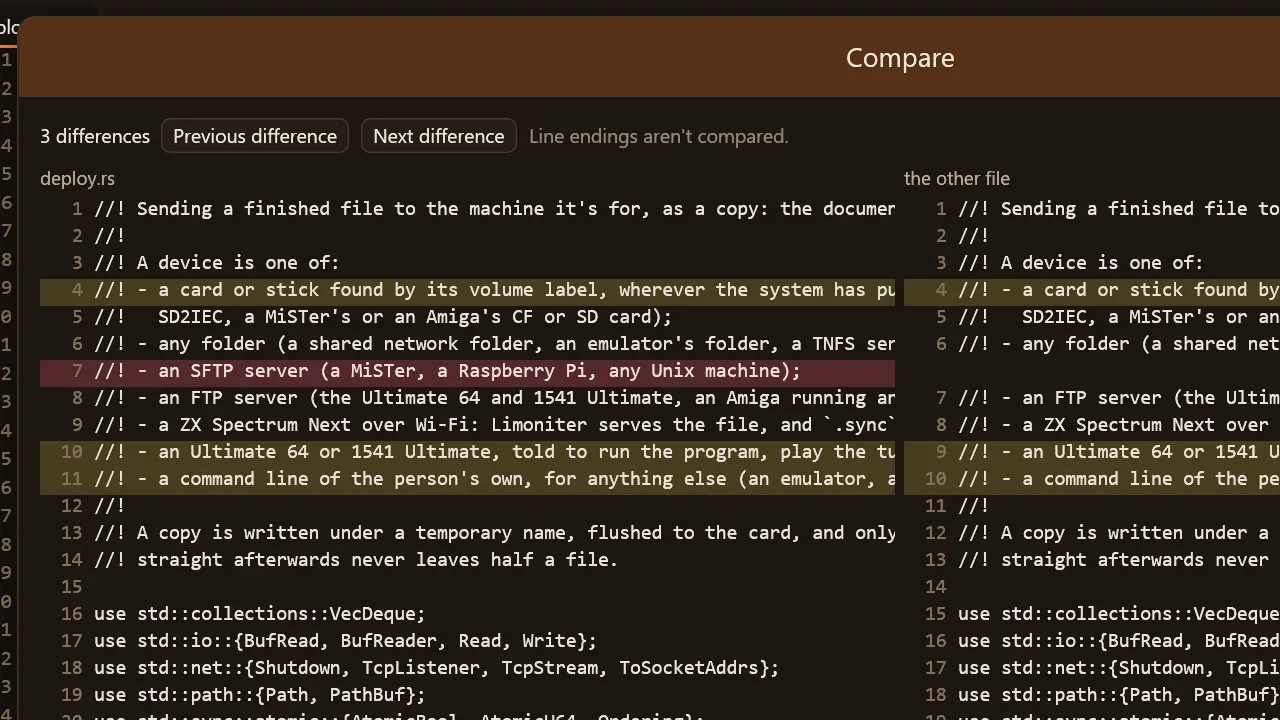
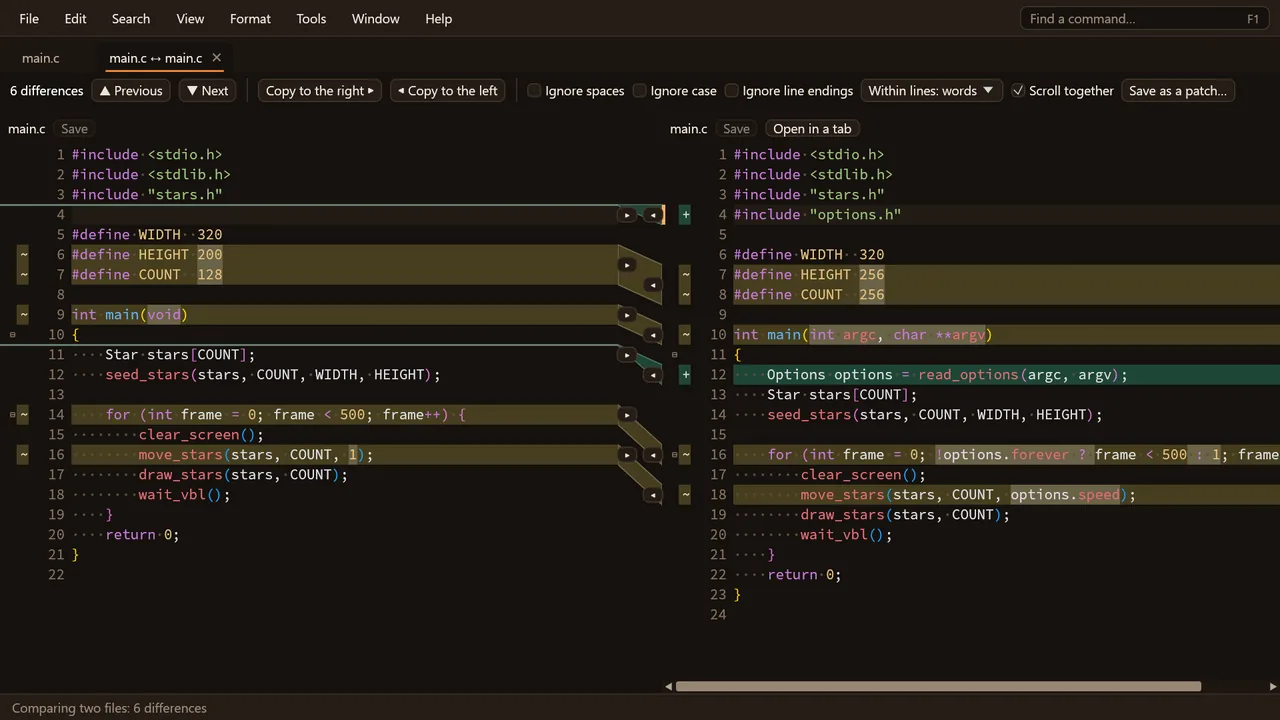
Make compare and merge prominent on the website, with new screenshots
A Compare and merge section on the home page, in the navigation and the slideshow; rows for comparing
folders and three-way merge in the comparison. Screenshots ignore the real mouse; the merge tab scrolls
its result to the conflict and isn't offered Git; folder rows show their words only when hovered.

diff --git a/web/index.html b/web/index.html
@@ -4,7 +4,7 @@
   <meta charset="utf-8">
   <meta name="viewport" content="width=device-width, initial-scale=1">
   <title>Limoniter: a powerful text and hex editor that speaks 8-bit</title>
-  <meta name="description" content="Limoniter is a free, open-source text and hex editor for Windows, macOS and Linux: column editing, an undo tree, Find in Files, compare, code layout, scripts and 10 GB files. It also edits the files of older computers byte for byte: PETSCII, ATASCII, EBCDIC, teletext and 170 more character sets. It opens their disks and tapes, lists their BASIC, and sends your work back to the machine.">
+  <meta name="description" content="Limoniter is a free, open-source text and hex editor for Windows, macOS and Linux: column editing, an undo tree, Find in Files, folder and file compare, three-way merge, code layout, scripts and 10 GB files. It also edits the files of older computers byte for byte: PETSCII, ATASCII, EBCDIC, teletext and 170 more character sets. It opens their disks and tapes, lists their BASIC, and sends your work back to the machine.">
   <link rel="canonical" href="https://limoniter.com/">
   <meta property="og:type" content="website">
   <meta property="og:url" content="https://limoniter.com/">
@@ -32,6 +32,7 @@
       <button class="menu-button" aria-expanded="false" aria-controls="nav">Menu</button>
       <nav id="nav" class="nav">
         <a href="#features">Everyday work</a>
+        <a href="#compare">Compare and merge</a>
         <a href="#retro">Older computers</a>
         <a href="#machines">Machines</a>
         <a href="#send">Send to device</a>
@@ -49,7 +50,7 @@
         <div class="hero-text">
           <p class="eyebrow">Free and open source · Windows, macOS and Linux</p>
           <h1>A powerful editor for today's files, and one that speaks <span class="speaks-line"><span class="speaks">PETSCII</span><span class="cursor" aria-hidden="true"></span></span></h1>
-          <p class="lead">Limoniter is a full-strength text and hex editor for everyday work. It has column editing, an undo tree, Find in Files, side-by-side compare, code layout, macros, scripts and add-ons, and files of 10 GB open in milliseconds.</p>
+          <p class="lead">Limoniter is a full-strength text and hex editor for everyday work. It has column editing, an undo tree, Find in Files, <a href="#compare">folder and file compare with three-way merge</a>, code layout, macros, scripts and add-ons, and files of 10 GB open in milliseconds.</p>
           <p class="lead">It's also the only editor that knows the files of older computers. It edits their text byte for byte in the machine's own character set, opens their disks and tapes, lists their BASIC, and sends your work back to the machine.</p>
           <div class="actions">
             <a class="button primary" href="#get">Download</a>
@@ -62,6 +63,12 @@
             <button class="slide active" data-full="images/teletext.webp" data-caption="A teletext page file beside the page it makes" aria-label="Enlarge: A teletext page file beside the page it makes">
               <img src="images/teletext-close.webp" alt="A teletext page and the file behind it" width="1280" height="720">
             </button>
+            <button class="slide" data-full="images/compare-folders.webp" data-caption="Two folders compared, file by file" aria-label="Enlarge: Two folders compared, file by file" tabindex="-1" aria-hidden="true">
+              <img src="images/compare-folders-close.webp" alt="Two versions of a project compared as a tree" width="1280" height="720" loading="lazy">
+            </button>
+            <button class="slide" data-full="images/merge.webp" data-caption="A three-way merge, with the result to edit" aria-label="Enlarge: A three-way merge, with the result to edit" tabindex="-1" aria-hidden="true">
+              <img src="images/merge-close.webp" alt="The merge tab with the original, mine and theirs above the result" width="1280" height="720" loading="lazy">
+            </button>
             <button class="slide" data-full="images/undo-tree.webp" data-caption="Undo as a tree, with every branch kept" aria-label="Enlarge: Undo as a tree, with every branch kept" tabindex="-1" aria-hidden="true">
               <img src="images/undo-tree-close.webp" alt="The Edit history panel beside some code" width="1280" height="720" loading="lazy">
             </button>
@@ -73,9 +80,6 @@
             </button>
             <button class="slide" data-full="images/table.webp" data-caption="A CSV file as a table, cells and all" aria-label="Enlarge: A CSV file as a table, cells and all" tabindex="-1" aria-hidden="true">
               <img src="images/table-close.webp" alt="A CSV file of minerals shown in table view" width="1280" height="720" loading="lazy">
-            </button>
-            <button class="slide" data-full="images/compare.webp" data-caption="Two versions of a file, side by side" aria-label="Enlarge: Two versions of a file, side by side" tabindex="-1" aria-hidden="true">
-              <img src="images/compare-close.webp" alt="The Compare view with changed lines marked" width="1280" height="720" loading="lazy">
             </button>
             <button class="slide" data-full="images/amiga-disk.webp" data-caption="An Amiga floppy, opened as a folder" aria-label="Enlarge: An Amiga floppy, opened as a folder" tabindex="-1" aria-hidden="true">
               <img src="images/amiga-disk-close.webp" alt="Fred Fish disk 801 in the disk browser" width="1280" height="720" loading="lazy">
@@ -117,7 +121,7 @@
           </article>
           <article class="card">
             <h3>Find, replace, compare</h3>
-            <p>Regular expressions, hex bytes, history and favourites. Find and Replace in Files across folders, open files or a project, in the background. Compare two files side by side, or narrow to a few lines and work on just those.</p>
+            <p>Regular expressions, hex bytes, history and favourites. Find and Replace in Files across folders, open files or a project, in the background. Compare files and whole folders, and merge three versions: <a href="#compare">more below</a>.</p>
           </article>
           <article class="card">
             <h3>Code, laid out and coloured</h3>
@@ -147,7 +151,52 @@
       </div>
     </section>
 
-    <section id="retro" class="section alt">
+    <section id="compare" class="section alt">
+      <div class="wrap">
+        <div class="split">
+          <div>
+            <h2>Compare and merge</h2>
+            <p>Compare two files or two whole folders, merge three versions of a file, and let Git use Limoniter for both. It's all in <strong>Tools › Compare files…</strong>, <strong>Compare folders…</strong> and <strong>Git › Merge</strong>.</p>
+            <ul class="ticks">
+              <li><strong>Files side by side, both editable.</strong> Changed lines and the words within them are marked. An arrow copies a difference across, and Undo takes it back. Spaces, case and line endings can be ignored, and the comparison saves as a patch.</li>
+              <li><strong>Whole folders as a tree.</strong> Each side can be a folder, a Git revision, a disk image or archive, or a folder on an SFTP server. Compare by size and time or by contents, and leave out what <code>.gitignore</code> leaves out. Save the result as an HTML report or one patch.</li>
+              <li><strong>Not only text.</strong> Binary files are compared byte by byte in hex, pictures as pictures with their differences shown, and files too big for memory in the background.</li>
+              <li><strong>Three-way merge.</strong> The original, mine and theirs are lined up above the result, which you can edit. Changes made on only one side are merged already, and each conflict waits for Take mine, Take theirs or Take both.</li>
+              <li><strong>Git, when you say so.</strong> Conflicted files get <strong>Resolve in merge…</strong>. One button makes <code>git difftool</code> and <code>git mergetool</code> open Limoniter. It asks first if another tool is set, and it can put your old settings back.</li>
+              <li><strong>Copying with care.</strong> Before anything is copied between folders, you see a list of what will change. Nothing is deleted, and every file that's replaced is backed up first.</li>
+            </ul>
+          </div>
+          <div class="terminal" aria-label="Resolving a Git conflict in Limoniter">
+            <div class="terminal-bar"><span></span><span></span><span></span></div>
+<pre><code><span class="dim">git</span>        <b>git mergetool</b>
+<span class="dim">git</span>        Merging: src/main.c
+
+<span class="dim">Limoniter</span>  Merge: main.c   1 conflict left
+           Take mine · <b>Take theirs</b> · Take both
+<span class="dim">Limoniter</span>  Saved, no conflicts left
+
+<span class="dim">git</span>        src/main.c is resolved
+<span class="dim">git</span>        <b>git commit</b></code></pre>
+          </div>
+        </div>
+        <div class="gallery compare-gallery">
+          <figure>
+            <button class="shot" data-full="images/compare-folders.webp" aria-label="Enlarge: comparing two folders"><img src="images/compare-folders-close.webp" alt="Two versions of a project compared as a tree, with each file marked the same, changed, or only on one side" loading="lazy" width="1280" height="720"></button>
+            <figcaption>Two versions of a project compared folder by folder, with what changed in words as well as colour.</figcaption>
+          </figure>
+          <figure>
+            <button class="shot" data-full="images/compare.webp" aria-label="Enlarge: comparing two files"><img src="images/compare-close.webp" alt="Two versions of a C file side by side, both editable, with changed lines and words marked" loading="lazy" width="1280" height="720"></button>
+            <figcaption>Two files side by side, both editable, with a difference copied across in one click.</figcaption>
+          </figure>
+          <figure>
+            <button class="shot" data-full="images/merge.webp" aria-label="Enlarge: a three-way merge"><img src="images/merge-close.webp" alt="The merge tab: the original, mine and theirs above, and the merged result below with one conflict left" loading="lazy" width="1280" height="720"></button>
+            <figcaption>A three-way merge: what merges cleanly is done already, and the conflict waits for you.</figcaption>
+          </figure>
+        </div>
+      </div>
+    </section>
+
+    <section id="retro" class="section">
       <div class="wrap">
         <h2>For older computers</h2>
         <p class="section-lead">This is where no other editor comes close. Limoniter knows the machines themselves: their character sets, screens, disks, programs and pictures.</p>
@@ -180,7 +229,7 @@
       </div>
     </section>
 
-    <section id="machines" class="section">
+    <section id="machines" class="section alt">
       <div class="wrap">
         <h2>Pick your machine</h2>
         <p class="section-lead">Here's what Limoniter knows about each one.</p>
@@ -190,7 +239,7 @@
       </div>
     </section>
 
-    <section id="send" class="section alt">
+    <section id="send" class="section">
       <div class="wrap split">
         <div>
           <h2>From the editor to the real machine</h2>
@@ -217,7 +266,7 @@
       </div>
     </section>
 
-    <section id="screens" class="section">
+    <section id="screens" class="section alt">
       <div class="wrap">
         <h2>Screenshots</h2>
         <div class="gallery">
@@ -246,10 +295,6 @@
             <figcaption>Copy any theme and change it colour by colour, or make one from three colours.</figcaption>
           </figure>
           <figure>
-            <button class="shot" data-full="images/compare.webp" aria-label="Enlarge: comparing two files"><img src="images/compare-close.webp" alt="The Compare view showing two files with changed lines highlighted" loading="lazy" width="1280" height="720"></button>
-            <figcaption>Two versions of a file side by side, with the differences marked.</figcaption>
-          </figure>
-          <figure>
             <button class="shot" data-full="images/amiga-disk.webp" aria-label="Enlarge: an Amiga floppy"><img src="images/amiga-disk-close.webp" alt="Fred Fish disk 801 open in the disk browser" loading="lazy" width="1280" height="720"></button>
             <figcaption>An Amiga floppy from the Fred Fish collection, opened as a folder.</figcaption>
           </figure>
@@ -261,7 +306,7 @@
       </div>
     </section>
 
-    <section id="get" class="section alt">
+    <section id="get" class="section">
       <div class="wrap">
         <h2>Get Limoniter</h2>
         <div class="platforms">

diff --git a/web/compare.html b/web/compare.html
@@ -299,6 +299,38 @@
 <td class="yes"><span class="mark" aria-label="Yes">✓</span></td>
 </tr>
 <tr>
+<th scope="row">Compare folders</th>
+<td class="ours yes"><span class="mark" aria-label="Yes">✓</span> folders, Git revisions, disk images, archives and SFTP</td>
+<td class="no"><span class="mark" aria-label="No">✗</span></td>
+<td class="no"><span class="mark" aria-label="No">✗</span></td>
+<td class="part"><span class="mark" aria-label="In part">◐</span> extensions</td>
+<td class="part"><span class="mark" aria-label="In part">◐</span> plug-ins</td>
+<td class="yes"><span class="mark" aria-label="Yes">✓</span></td>
+<td class="unknown"><span class="mark" aria-label="Not checked">?</span></td>
+<td class="no"><span class="mark" aria-label="No">✗</span></td>
+<td class="unknown"><span class="mark" aria-label="Not checked">?</span></td>
+<td class="unknown"><span class="mark" aria-label="Not checked">?</span></td>
+<td class="no"><span class="mark" aria-label="No">✗</span></td>
+<td class="yes"><span class="mark" aria-label="Yes">✓</span></td>
+<td class="unknown"><span class="mark" aria-label="Not checked">?</span></td>
+</tr>
+<tr>
+<th scope="row">Three-way merge</th>
+<td class="ours yes"><span class="mark" aria-label="Yes">✓</span> and as Git's merge tool</td>
+<td class="no"><span class="mark" aria-label="No">✗</span></td>
+<td class="no"><span class="mark" aria-label="No">✗</span></td>
+<td class="yes"><span class="mark" aria-label="Yes">✓</span></td>
+<td class="yes"><span class="mark" aria-label="Yes">✓</span></td>
+<td class="yes"><span class="mark" aria-label="Yes">✓</span></td>
+<td class="unknown"><span class="mark" aria-label="Not checked">?</span></td>
+<td class="part"><span class="mark" aria-label="In part">◐</span></td>
+<td class="unknown"><span class="mark" aria-label="Not checked">?</span></td>
+<td class="unknown"><span class="mark" aria-label="Not checked">?</span></td>
+<td class="no"><span class="mark" aria-label="No">✗</span></td>
+<td class="unknown"><span class="mark" aria-label="Not checked">?</span></td>
+<td class="no"><span class="mark" aria-label="No">✗</span></td>
+</tr>
+<tr>
 <th scope="row">Spell checking</th>
 <td class="ours yes"><span class="mark" aria-label="Yes">✓</span></td>
 <td class="yes"><span class="mark" aria-label="Yes">✓</span></td>
@@ -826,7 +858,7 @@
 <h2 id="what-others-do-that-limoniter-doesn-t">What others do that Limoniter doesn't</h2>
 <ul><li><strong>Other platforms.</strong> Limoniter is made for Windows. It now builds and runs on Linux, where a few things are lighter (no file-type registration; spelling through hunspell or aspell; printing as plain pages through CUPS), and there's a Mac app to download, though it isn't signed yet and has had less use than the Windows one. VS Code, Sublime Text, Vim, Emacs, Kate, Zed and UltraEdit are long established on all three; BBEdit is the Mac's own.</li><li><strong>Plug-ins.</strong> Notepad++, VS Code, Sublime Text, Vim, Emacs, Kate, Zed and EmEditor have thousands of add-ons written by others. Limoniter's add-ons are Rhai scripts that add commands, run when files open or save, and show panels, but there is no catalogue of them yet, and they can't add new kinds of window, language support or file formats.</li><li><strong>Programming tools.</strong> VS Code, Zed and Kate have years of extensions on top of their language servers, debuggers, terminals and test runners. Limoniter now has language servers (off until switched on), a terminal, tasks and a test panel, and its own debugger and profiler for the machines it knows (Z80, 6502, 6809 and 68000, in its built-in Spectrum and in ZEsarUX, VICE, XRoar and Hatari); but it doesn't debug C, Rust or Python programs, and it has no extension ecosystem for languages.</li><li><strong>Remote and shared editing.</strong> VS Code, Zed, UltraEdit, BBEdit, Vim and Emacs edit files on other machines over SSH or FTP; Zed and VS Code let several people edit together. Limoniter opens and saves files over SFTP, and can send a copy to an FTP server, but can't open files over FTP, and has no remote terminal, remote search or shared editing.</li><li><strong>Huge files.</strong> UltraEdit and EmEditor are tuned for files of many gigabytes and keep every command available. Limoniter opens, edits, searches, compares, prints and saves such files in text, hex or table view, but still sets a few commands aside above 64 MB.</li><li><strong>Tables of data.</strong> EmEditor treats CSV files as tables, with many more tools for them. Limoniter's table view edits, sorts and filters delimited data of any size, but has fewer tools.</li><li><strong>AI built in.</strong> Notepad, VS Code, Zed, EmEditor and BBEdit have AI features of their own. Limoniter's assistant hands the work to Claude Code or Codex, which have to be installed and signed in separately.</li><li><strong>Other languages.</strong> Notepad, Notepad++, VS Code, UltraEdit, EmEditor and others can show their menus in many languages. Limoniter's are in English only.</li><li><strong>Maturity.</strong> Notepad++, Vim, Emacs, UltraEdit and the others have been used by many people for many years. Limoniter is new, and will have rough edges the others have long since smoothed.</li></ul>
 <h2 id="what-only-limoniter-does">What only Limoniter does</h2>
-<ul><li>Opens the disk images, tapes and archives of the Amiga, Commodore 64, ZX Spectrum, Amstrad, BBC Micro and Acorn, Apple II, Atari 8-bit and ST, TRS-80, Tandy Color Computer and Dragon, Macintosh, CP/M machines (with their format worked out for itself), HP and PC, and shows what's inside. Spectrum tapes and +3 disks, Commodore, PC and Atari ST, Amiga, Atari 8-bit DOS 2 and Color Computer RS-DOS images can have files added, deleted and renamed too, and blank ones made.</li><li>Reads and writes text in the character sets of those machines, byte for byte, alongside 22 EBCDIC code pages and the usual modern ones.</li><li>Previews ANSI art, PETSCII, teletext and Spectrum screens, lists tokenised BASIC from ten dialects and saves several back, shows legacy pictures (Amiga IFF with colour cycling, Atari ST, C64, MacPaint, RISC OS sprites, PCX, GEM, Apple II, Kodak Photo CD) and saves them as PNG, and converts WordStar and MemoMaker documents.</li><li>Keeps an undo history as a tree, and the history of any part of a file.</li></ul>
+<ul><li>Opens the disk images, tapes and archives of the Amiga, Commodore 64, ZX Spectrum, Amstrad, BBC Micro and Acorn, Apple II, Atari 8-bit and ST, TRS-80, Tandy Color Computer and Dragon, Macintosh, CP/M machines (with their format worked out for itself), HP and PC, and shows what's inside. Spectrum tapes and +3 disks, Commodore, PC and Atari ST, Amiga, Atari 8-bit DOS 2 and Color Computer RS-DOS images can have files added, deleted and renamed too, and blank ones made.</li><li>Reads and writes text in the character sets of those machines, byte for byte, alongside 22 EBCDIC code pages and the usual modern ones.</li><li>Previews ANSI art, PETSCII, teletext and Spectrum screens, lists tokenised BASIC from ten dialects and saves several back, shows legacy pictures (Amiga IFF with colour cycling, Atari ST, C64, MacPaint, RISC OS sprites, PCX, GEM, Apple II, Kodak Photo CD) and saves them as PNG, and converts WordStar and MemoMaker documents.</li><li>Keeps an undo history as a tree, and the history of any part of a file.</li><li>Compares a folder file by file with a Git revision, or with what is inside a disk image or archive of an older computer.</li></ul>
 <p>Each of these readers is checked against independent tools on real disks: cpmtools, AppleCommander, atrcopy, trs80-tool, ToolShed, ddosutils, netpbm and ImageMagick among them.</p>
 <h2 id="sources">Sources</h2>
 <p>Pricing and platform details were checked in November 2026, including: <a href="https://www.emeditor.com/?p=30355">EmEditor licence price update</a>, <a href="https://www.capterra.com/p/183163/UltraEdit/pricing/">UltraEdit pricing</a>, <a href="https://blogs.windows.com/windows-insider/2026/01/21/notepad-and-paint-updates-begin-rolling-out-to-windows-insiders/">Notepad updates for Windows Insiders</a>, <a href="https://winaero.com/microsoft-makes-notepad-markdown-support-generally-available">Notepad Markdown support</a>, <a href="https://zed.dev/blog/zed-for-windows-is-here">Zed for Windows</a>.</p>

diff --git a/web/features.html b/web/features.html
@@ -45,7 +45,7 @@
       <p class="back"><a href="index.html">‹ Limoniter</a></p>
       <h1>What Limoniter can do</h1>
       <div class="article-lead">
-<p>Limoniter is a text and hex editor for Windows, also released for Linux (as an AppImage and a .deb) and for Macs with Apple Silicon. Alongside everyday editing it knows the character sets, file formats and media of older computers: it opens 8-bit and 16-bit text byte for byte, previews retro screens, pictures and BASIC programs, and browses disk images, tapes and archives from classic machines without changing them.</p>
+<p>Limoniter is a text and hex editor for Windows, also released for Linux (as an AppImage and a .deb) and for Macs with Apple Silicon. Alongside everyday editing it knows the character sets, file formats and media of older computers: it opens 8-bit and 16-bit text byte for byte, previews retro screens, pictures and BASIC programs, and browses disk images, tapes and archives from classic machines without changing them. It compares files and whole folders, merges three versions of a file, and can be what Git uses to show differences and resolve conflicts.</p>
 <p>Every command is in the menus, arranged by what it is for. Press <strong>F1</strong> to find any command by describing what it does. On a Mac, shortcuts use Cmd where this list says Ctrl, Option and an arrow moves by a word, Cmd+[ and Cmd+] go back and forward, and files open from Finder by double-clicking or Open With.</p>
       </div>
       <nav class="contents" aria-label="Sections">

diff --git a/web/css/style.css b/web/css/style.css
@@ -232,6 +232,7 @@ h3 { font-size: 1.12rem; margin: 0 0 8px; }
 @media (min-width: 640px) { .gallery { grid-template-columns: repeat(2, 1fr); } }
 @media (min-width: 980px) { .gallery { grid-template-columns: repeat(3, 1fr); } }
 .gallery figure { margin: 0; }
+.compare-gallery { margin-top: 40px; }
 .gallery .shot { box-shadow: none; aspect-ratio: 16 / 9; }
 .gallery .shot img { height: 100%; object-fit: cover; object-position: top left; }
 .gallery figcaption { color: var(--text-dim); font-size: 0.92rem; margin-top: 10px; }

diff --git a/src/compare_host.rs b/src/compare_host.rs
@@ -987,7 +987,8 @@ fn draw_folder_compare(ui: &mut Ui, fc: &mut FolderCompare, input_on: bool) -> V
                 painter.text(egui::pos2(area.max.x - 6.0, rect.center().y), egui::Align2::RIGHT_CENTER, detail, egui::FontId::proportional(12.0), theme::text_dim());
             }
             let spoken = format!("{}: {}{}", row.status.words(), row.path, row.problem.as_deref().map(|p| format!(" ({p})")).unwrap_or_default());
-            let response = response.on_hover_text(&spoken);
+            // Only when the pointer is on it: a row chosen with the keys shouldn't show its words in a box.
+            let response = if response.hovered() { response.on_hover_text(&spoken) } else { response };
             crate::access::chosen(&response, egui::Role::ListItem, selected, &spoken);
             if response.clicked() {
                 let on_toggle = row.is_dir() && response.interact_pointer_pos().is_some_and(|p| {

diff --git a/src/app.rs b/src/app.rs
@@ -6629,6 +6629,14 @@ impl Limoniter {
 }
 
 impl eframe::App for Limoniter {
+    /// A picture shows the window as it would be with nobody at it: wherever the real mouse happens to be is ignored.
+    fn raw_input_hook(&mut self, _ctx: &egui::Context, raw_input: &mut egui::RawInput) {
+        if self.screenshot.is_some() {
+            raw_input.events.retain(|event| !matches!(event, egui::Event::PointerMoved(_) | egui::Event::PointerButton { .. } | egui::Event::MouseWheel { .. }));
+            raw_input.events.push(egui::Event::PointerGone);
+        }
+    }
+
     /// If drawing a frame ever fails, the very latest edits are written out before anything else happens.
     fn ui(&mut self, ui: &mut Ui, frame: &mut eframe::Frame) {
         recovery::IN_FRAME.store(true, Ordering::SeqCst);

diff --git a/src/git_host.rs b/src/git_host.rs
@@ -908,6 +908,10 @@ impl Limoniter {
         if self.git.repo.is_some() || self.git.installed == Some(false) {
             return;
         }
+        // Not over a merge or a comparison: those are files being looked at, often Git's own copies.
+        if self.docs.get(self.active).is_some_and(|doc| doc.merge.is_some() || doc.compare.is_some()) {
+            return;
+        }
         let Some(folder) = self.git.repo_of.as_deref().and_then(Path::parent).map(Path::to_path_buf) else {
             return;
         };

diff --git a/src/merge_host.rs b/src/merge_host.rs
@@ -373,6 +373,8 @@ impl Limoniter {
         let lines = self.docs[index].text.all_lines();
         let doc = &mut self.docs[index];
         doc.text.move_caret(target.start, 0, false);
+        // The conflict near the top of the result, with a few lines before it, so all of it can be seen.
+        doc.text_state.set_top(target.start.saturating_sub(3));
         doc.text.reveal = true;
         if let Some(tab) = doc.merge.as_mut()
             && let Some(chunk) = tab.chunk_of(&lines, target)

diff --git a/web/tools/make-images.py b/web/tools/make-images.py
@@ -23,7 +23,9 @@ CLOSE = {
     "undo-tree": (0, 40),
     "send": (560, 40),
     "table": (0, 60),
-    "compare": (60, 60),
+    "compare": None,
+    "compare-folders": None,
+    "merge": None,
     "amiga-disk": (0, 40),
     "huge-hex": (0, 50),
     "command-box": (300, 40),

diff --git a/COMPARISON.md b/COMPARISON.md
@@ -37,6 +37,8 @@ It reflects the editors as of November 2026, going by their own documentation an
 | Record and play macros | ✓ | ✗ | ✓ | ◐ | ✓ | ✓ | ✓ | ✗ | ✓ | ✓ | ✓ | ◐ | ✓ |
 | Scripting | ✓ Rhai | ✗ | ◐ | ✓ | ✓ | ✓ | ◐ | ◐ | ✓ JavaScript | ✓ JavaScript | ✓ Python | ✓ AppleScript | ✗ |
 | Compare two files | ✓ | ✗ | ◐ | ✓ | ✓ | ✓ | ◐ | ◐ | ✓ | ✓ | ◐ | ✓ | ✓ |
+| Compare folders | ✓ folders, Git revisions, disk images, archives and SFTP | ✗ | ✗ | ◐ extensions | ◐ plug-ins | ✓ | ? | ✗ | ? | ? | ✗ | ✓ | ? |
+| Three-way merge | ✓ and as Git's merge tool | ✗ | ✗ | ✓ | ✓ | ✓ | ? | ◐ | ? | ? | ✗ | ? | ✗ |
 | Spell checking | ✓ | ✓ | ◐ | ◐ | ✓ | ✓ | ✓ | ? | ✓ | ✓ | ✓ | ✓ | ✓ |
 | Undo history as a tree | ✓ | ✗ | ✗ | ✗ | ✓ | ◐ | ✗ | ✗ | ✗ | ✗ | ✗ | ✗ | ✗ |
 | Crash recovery of unsaved edits | ✓ | ✓ | ✓ | ✓ | ✓ | ✓ | ◐ | ✓ | ✓ | ✓ | ✓ | ✓ | ? |
@@ -106,6 +108,7 @@ Some of these are possible elsewhere with separate tools (cpmtools, AppleCommand
 - Reads and writes text in the character sets of those machines, byte for byte, alongside 22 EBCDIC code pages and the usual modern ones.
 - Previews ANSI art, PETSCII, teletext and Spectrum screens, lists tokenised BASIC from ten dialects and saves several back, shows legacy pictures (Amiga IFF with colour cycling, Atari ST, C64, MacPaint, RISC OS sprites, PCX, GEM, Apple II, Kodak Photo CD) and saves them as PNG, and converts WordStar and MemoMaker documents.
 - Keeps an undo history as a tree, and the history of any part of a file.
+- Compares a folder file by file with a Git revision, or with what is inside a disk image or archive of an older computer.
 
 Each of these readers is checked against independent tools on real disks: cpmtools, AppleCommander, atrcopy, trs80-tool, ToolShed, ddosutils, netpbm and ImageMagick among them.
 

diff --git a/FEATURES.md b/FEATURES.md
@@ -1,6 +1,6 @@
 # What Limoniter can do
 
-Limoniter is a text and hex editor for Windows, also released for Linux (as an AppImage and a .deb) and for Macs with Apple Silicon. Alongside everyday editing it knows the character sets, file formats and media of older computers: it opens 8-bit and 16-bit text byte for byte, previews retro screens, pictures and BASIC programs, and browses disk images, tapes and archives from classic machines without changing them.
+Limoniter is a text and hex editor for Windows, also released for Linux (as an AppImage and a .deb) and for Macs with Apple Silicon. Alongside everyday editing it knows the character sets, file formats and media of older computers: it opens 8-bit and 16-bit text byte for byte, previews retro screens, pictures and BASIC programs, and browses disk images, tapes and archives from classic machines without changing them. It compares files and whole folders, merges three versions of a file, and can be what Git uses to show differences and resolve conflicts.
 
 Every command is in the menus, arranged by what it is for. Press **F1** to find any command by describing what it does. On a Mac, shortcuts use Cmd where this list says Ctrl, Option and an arrow moves by a word, Cmd+[ and Cmd+] go back and forward, and files open from Finder by double-clicking or Open With.
 
